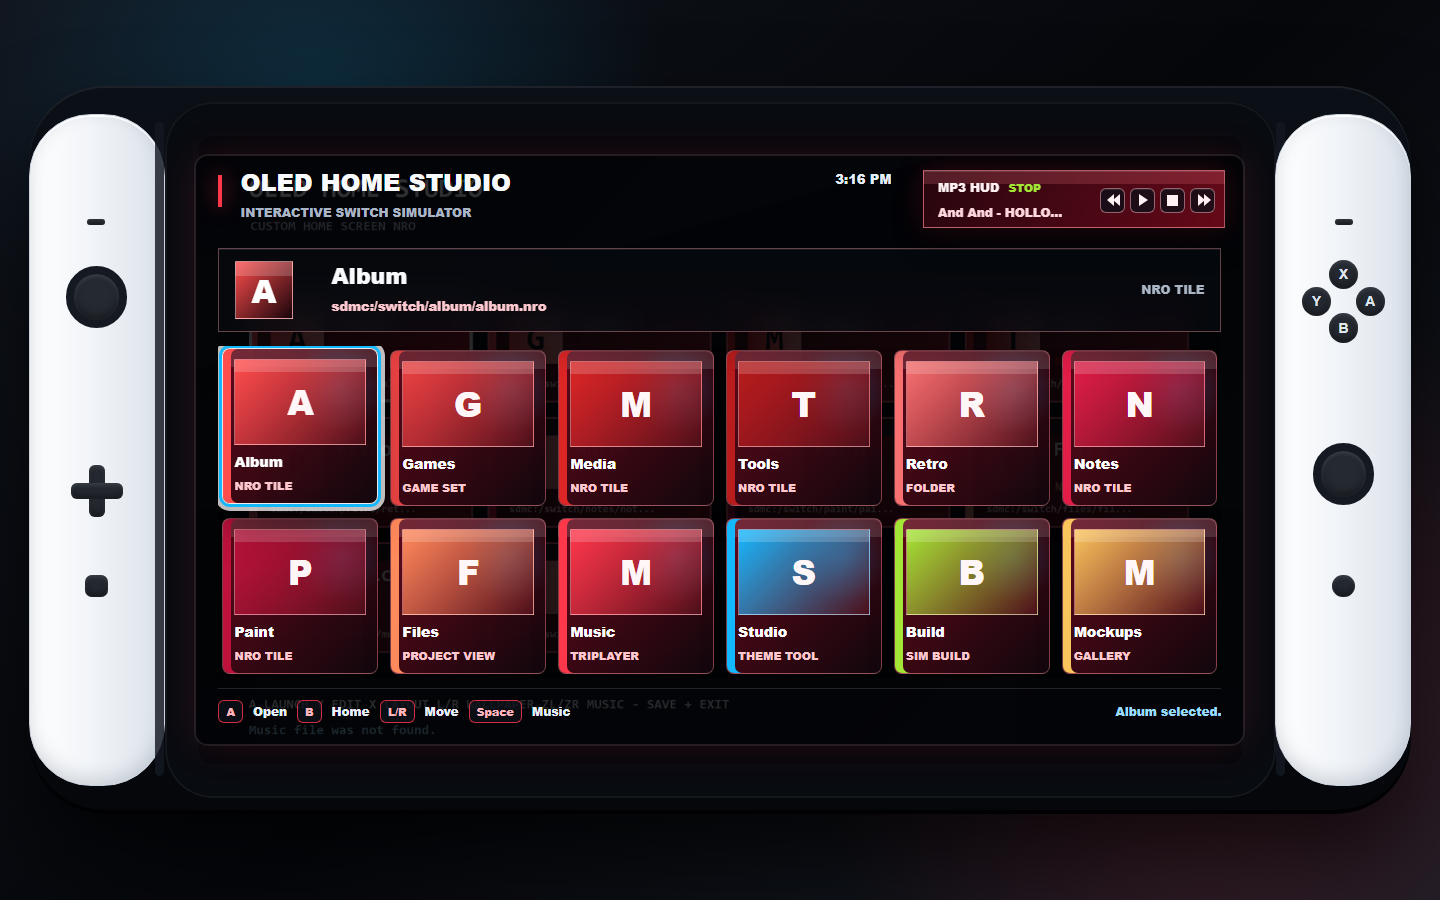
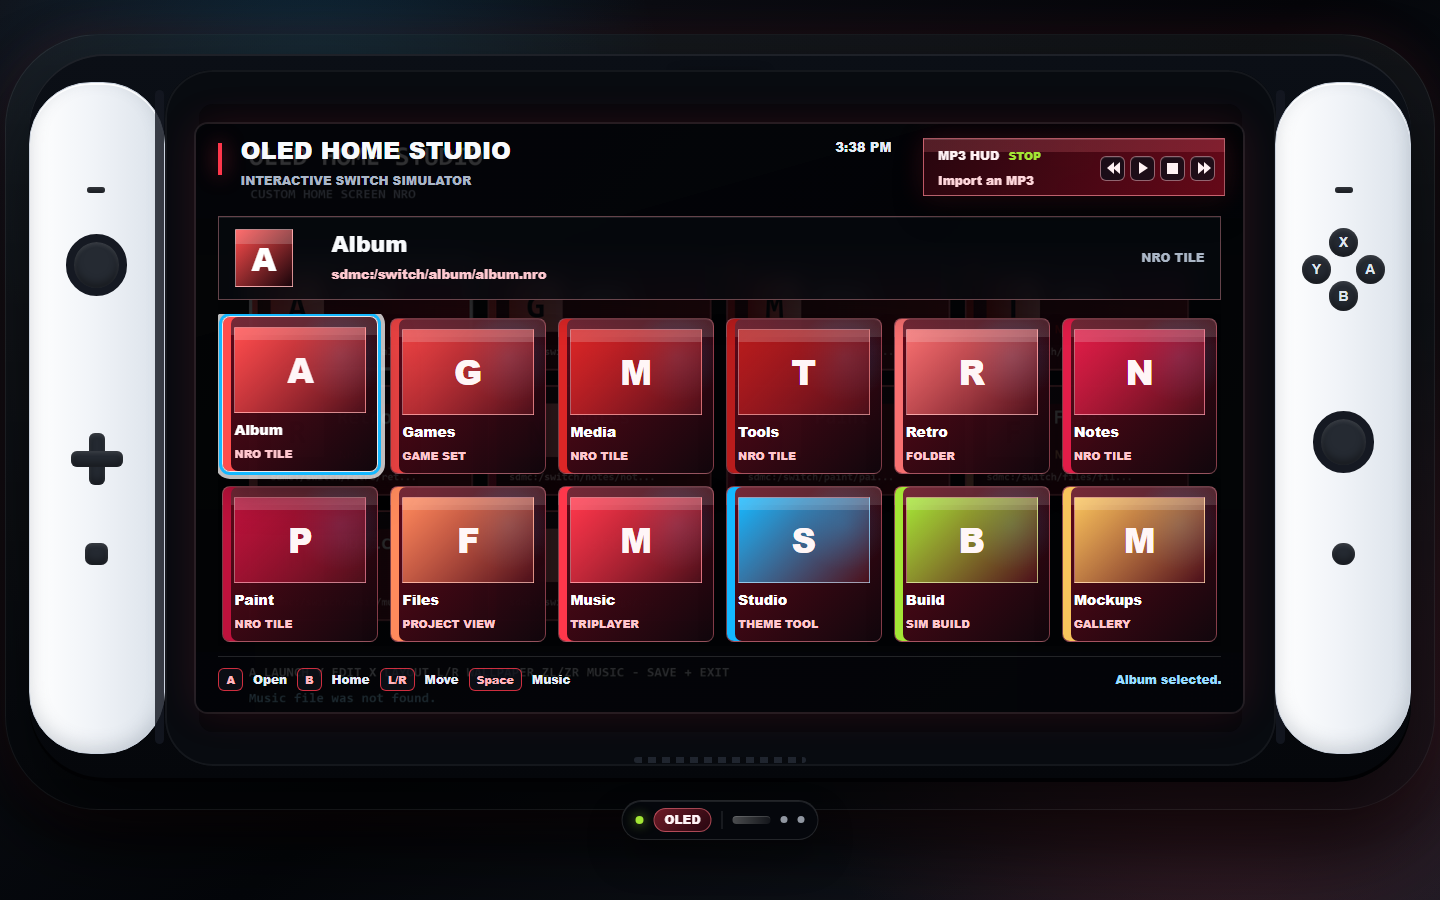
Keep simulator inside OLED frame GUI

diff --git a/index.html b/index.html
@@ -31,6 +31,8 @@
       min-height: 100vh;
       display: grid;
       place-items: center;
+      padding: 28px 18px 92px;
+      overflow: auto;
       background:
         radial-gradient(circle at 22% 14%, rgba(20, 184, 255, 0.18), transparent 26%),
         radial-gradient(circle at 84% 76%, rgba(255, 55, 75, 0.22), transparent 30%),
@@ -53,6 +55,22 @@
       width: min(96vw, 1690px);
       aspect-ratio: 169 / 89;
       position: relative;
+      isolation: isolate;
+    }
+
+    .stage::before {
+      content: "";
+      position: absolute;
+      inset: -20px -24px -28px;
+      z-index: -1;
+      border: 1px solid rgba(255, 255, 255, 0.08);
+      border-radius: 94px;
+      background:
+        linear-gradient(180deg, rgba(255, 255, 255, 0.05), rgba(255, 255, 255, 0)),
+        rgba(3, 5, 9, 0.34);
+      box-shadow:
+        0 34px 90px rgba(0, 0, 0, 0.58),
+        0 0 46px rgba(255, 55, 75, 0.12);
     }
 
     .switch {
@@ -64,6 +82,100 @@
         0 42px 88px rgba(0, 0, 0, 0.66),
         inset 0 2px 0 rgba(255, 255, 255, 0.08),
         inset 0 -4px 0 rgba(0, 0, 0, 0.72);
+    }
+
+    .switch::before {
+      content: "";
+      position: absolute;
+      left: 50%;
+      top: 2.7%;
+      width: 86px;
+      height: 5px;
+      border-radius: 999px;
+      transform: translateX(-50%);
+      background: linear-gradient(90deg, #202633, #06080d 52%, #202633);
+      box-shadow:
+        inset 0 1px 0 rgba(255, 255, 255, 0.08),
+        0 0 12px rgba(0, 0, 0, 0.66);
+    }
+
+    .switch::after {
+      content: "";
+      position: absolute;
+      left: 50%;
+      bottom: 2.6%;
+      width: 172px;
+      height: 6px;
+      border-radius: 999px;
+      transform: translateX(-50%);
+      background:
+        repeating-linear-gradient(90deg, #262c37 0 8px, #07090d 8px 14px);
+      opacity: 0.78;
+    }
+
+    .frame-gui {
+      position: absolute;
+      left: 50%;
+      bottom: -58px;
+      z-index: 4;
+      display: flex;
+      align-items: center;
+      gap: 10px;
+      min-height: 38px;
+      padding: 7px 13px;
+      border: 1px solid rgba(255, 255, 255, 0.12);
+      border-radius: 999px;
+      transform: translateX(-50%);
+      background: rgba(5, 8, 14, 0.72);
+      box-shadow:
+        inset 0 1px 0 rgba(255, 255, 255, 0.1),
+        0 18px 34px rgba(0, 0, 0, 0.34);
+      backdrop-filter: blur(12px);
+      color: #dfe8f5;
+      font-size: 12px;
+      font-weight: 900;
+      white-space: nowrap;
+    }
+
+    .frame-pill {
+      display: inline-grid;
+      place-items: center;
+      min-width: 56px;
+      height: 24px;
+      padding: 0 10px;
+      border: 1px solid rgba(255, 120, 135, 0.55);
+      border-radius: 999px;
+      background: linear-gradient(135deg, rgba(255, 55, 75, 0.42), rgba(65, 8, 19, 0.58));
+      color: #fff4f6;
+    }
+
+    .frame-light {
+      width: 8px;
+      height: 8px;
+      border-radius: 50%;
+      background: var(--lime);
+      box-shadow: 0 0 12px rgba(163, 230, 53, 0.72);
+    }
+
+    .frame-divider {
+      width: 1px;
+      height: 18px;
+      background: rgba(255, 255, 255, 0.16);
+    }
+
+    .frame-slot {
+      width: 38px;
+      height: 8px;
+      border-radius: 999px;
+      background: linear-gradient(90deg, rgba(255, 255, 255, 0.28), rgba(255, 255, 255, 0.06));
+      box-shadow: inset 0 1px 0 rgba(255, 255, 255, 0.16);
+    }
+
+    .frame-dot {
+      width: 7px;
+      height: 7px;
+      border-radius: 50%;
+      background: rgba(223, 232, 245, 0.64);
     }
 
     .body {
@@ -1181,49 +1293,45 @@
     }
 
     @media (max-width: 1100px) {
-      .stage {
-        width: 100vw;
+      body {
+        place-items: start center;
+        padding-top: 18px;
       }
 
       .switch {
-        border-radius: 34px;
+        border-radius: 48px;
       }
 
-      .joycon,
-      .rail {
-        display: none;
-      }
-
-      .body {
-        inset: 0;
-        width: auto;
-        height: auto;
-        border-radius: 0;
-        box-shadow: none;
-      }
-
-      .screen {
-        inset: 0;
-        width: auto;
-        height: auto;
-        border-radius: 0;
+      .frame-gui {
+        bottom: -54px;
+        transform: translateX(-50%) scale(0.92);
       }
     }
 
     @media (max-width: 860px) {
       body {
-        display: block;
         background: #05070b;
+        padding: 10px 8px 62px;
       }
 
-      .stage {
-        min-height: 100vh;
-        aspect-ratio: auto;
+      .switch {
+        border-radius: 26px;
+      }
+
+      .body {
+        box-shadow:
+          inset 0 0 0 1px rgba(255, 255, 255, 0.05),
+          inset 0 0 0 18px #080b10;
+      }
+
+      .screen {
+        border-radius: 7px;
       }
 
       .screen-inner {
-        grid-template-rows: 122px 1fr auto;
-        padding: 12px;
+        grid-template-rows: 104px 1fr 48px;
+        padding: 8px;
+        gap: 7px;
       }
 
       .topbar {
@@ -1231,27 +1339,90 @@
         grid-template-columns: 1fr;
       }
 
+      .brand {
+        gap: 10px;
+      }
+
+      .brand-title {
+        font-size: 18px;
+      }
+
+      .brand-subtitle {
+        margin-top: 7px;
+        font-size: 10px;
+      }
+
+      .clock {
+        display: none;
+      }
+
       .hud {
         position: relative;
         top: auto;
         right: auto;
         width: 100%;
+        height: 50px;
         order: 2;
+      }
+
+      .hud-track {
+        max-width: 92px;
+      }
+
+      .home-view.active {
+        grid-template-rows: 68px 1fr;
+        gap: 8px;
+      }
+
+      .focus-strip {
+        grid-template-columns: 46px minmax(0, 1fr);
+        gap: 8px;
+        padding: 7px;
+      }
+
+      .focus-art {
+        width: 42px;
+        height: 42px;
+        font-size: 22px;
+      }
+
+      .focus-title {
+        font-size: 16px;
+      }
+
+      .focus-path {
+        margin-top: 6px;
+        font-size: 10px;
+      }
+
+      .focus-status {
+        display: none;
       }
 
       .tile-grid,
       .tile-grid.compact,
       .tile-grid.folder {
         grid-template-columns: repeat(2, minmax(0, 1fr));
-        grid-auto-rows: 144px;
+        grid-auto-rows: 118px;
+        gap: 8px;
       }
 
-      .focus-strip {
-        grid-template-columns: 58px minmax(0, 1fr);
+      .tile {
+        padding: 8px;
+        gap: 5px;
       }
 
-      .focus-status {
-        display: none;
+      .tile-cover {
+        min-height: 48px;
+        font-size: 26px;
+      }
+
+      .tile-label {
+        font-size: 12px;
+      }
+
+      .tile-type {
+        font-size: 9px;
       }
 
       .launched-view.active,
@@ -1273,12 +1444,28 @@
       .footer {
         align-items: flex-start;
         flex-direction: column;
+        gap: 6px;
+        font-size: 10px;
+      }
+
+      .frame-gui {
+        bottom: -42px;
+        min-height: 30px;
+        transform: translateX(-50%) scale(0.82);
       }
     }
   </style>
 </head>
 <body>
   <main class="stage" aria-label="Interactive Switch-style simulator">
+    <div class="frame-gui" aria-label="OLED frame status">
+      <span class="frame-light" aria-hidden="true"></span>
+      <span class="frame-pill">OLED</span>
+      <span class="frame-divider" aria-hidden="true"></span>
+      <span class="frame-slot" aria-hidden="true"></span>
+      <span class="frame-dot" aria-hidden="true"></span>
+      <span class="frame-dot" aria-hidden="true"></span>
+    </div>
     <section class="switch">
       <div class="joycon left" aria-hidden="true">
         <div class="small-button minus"></div>
